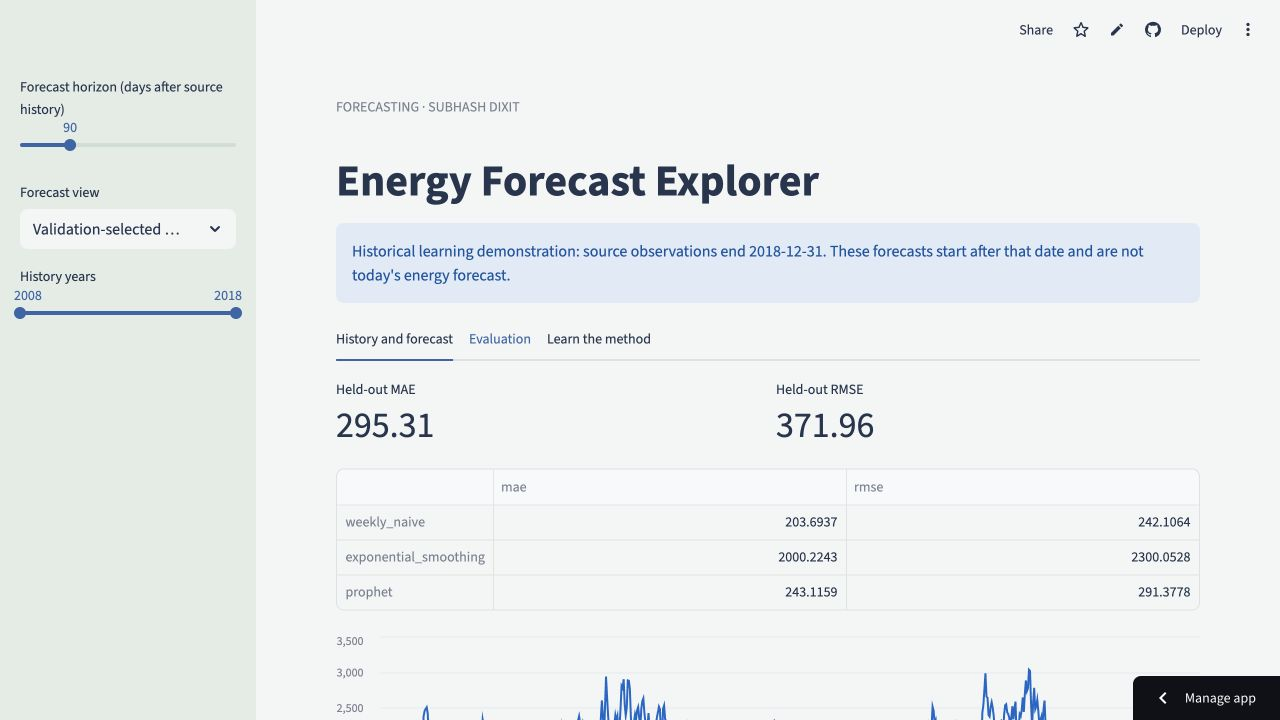
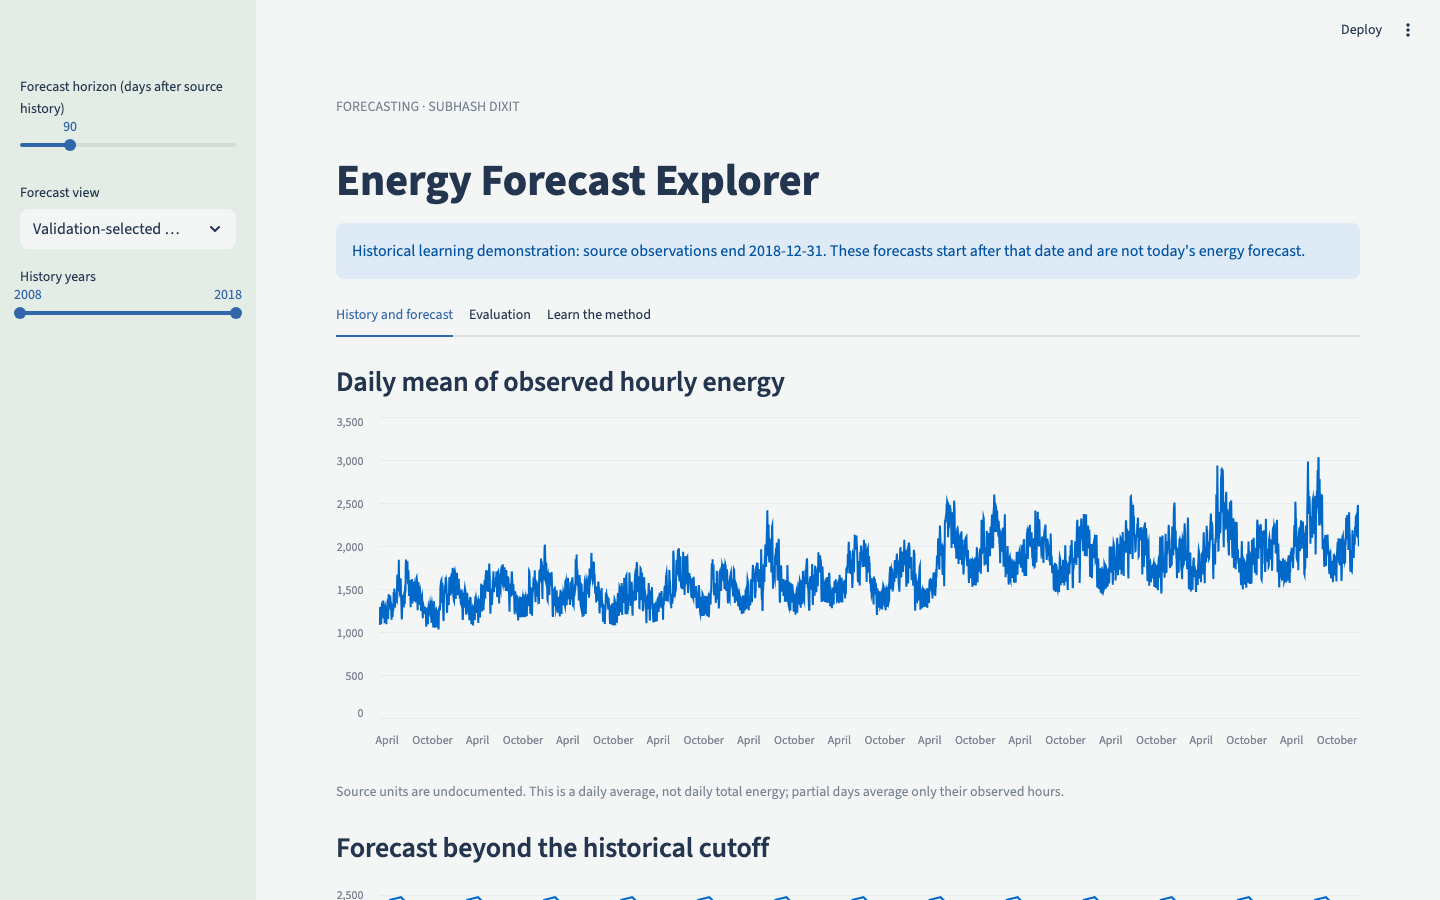
Document project architecture and add app screenshot (#4)

diff --git a/README.md b/README.md
@@ -1,16 +1,20 @@
 # Energy Forecast Explorer
 
-**Live application:** [Open Energy Demand Forecaster](https://subhash-energy-forecast.streamlit.app/)
+## 1. Project overview
 
-An end-to-end **historical daily-average energy forecasting dashboard** built with Streamlit. Compare a weekly-naive baseline, exponential smoothing and Prophet, inspect later-period errors, explore model-based uncertainty and download forecast horizons.
+Compare daily-average energy forecasts, inspect held-out errors, and download historical forecast horizons in a Streamlit dashboard.
 
-Heavy fitting runs offline. The deployed interface serves reviewed forecast artifacts, so opening a page does not start Stan or retrain a model.
+[Live demo](https://subhash-energy-forecast.streamlit.app/) · [Source repository](https://github.com/subhashdixit/energy-demand-forecaster)
 
-> Source history ends **31 December 2018**. The dashboard's forecasts are anchored after that historical cutoff; they are not current energy predictions. Source units and renewable-energy composition are undocumented. This is a learning resource, not a live grid-planning service.
+![Energy Forecast Explorer main screen](docs/images/application.png)
 
-![Live evaluation view](docs/images/application.png)
+*Main screen captured from the app running locally.*
 
-## What we built and why
+## 2. Motivation and problem statement
+
+Hourly challenge data and an undated forecast export make it hard to tell what was observed, how missing hours affect the daily signal, and whether a complex forecast beats a weekly baseline. This project builds a dated daily series, reports its coverage, and compares models on later observations before publishing forecast artifacts.
+
+## 3. Solution and scope
 
 The original project used Prophet for an hourly energy challenge and exported a three-year forecast. The new app provides a transparent **daily-average** learning task with chronological model comparison, explicit missing-data coverage, measured evaluation and a fast interface. This is a documented change in granularity, not an assertion that the original hourly submission has been reproduced unchanged.
 
@@ -23,41 +27,7 @@ The original notebook, CSVs and three-year export remain preserved. [The origina
 | Evaluation | Read validation MAE/RMSE and later held-out actual-versus-forecast lines |
 | Method | Understand aggregation, missing observations, time order, baselines and uncertainty |
 
-## Architecture
-
-```mermaid
-flowchart LR
-    A[Original hourly training CSV] --> B[Daily observed-value means and coverage]
-    B --> C[Chronological candidate comparison]
-    C --> D[Freeze validation-selected algorithm]
-    D --> E[Later-period test]
-    E --> F[Refit on all historical data]
-    F --> G[Dated forecast and evaluation artifacts]
-    G --> H[Streamlit dashboard and CSV downloads]
-```
-
-The application package contains data aggregation and metric functions. A separate script fits models and writes artifacts. The interface reads those artifacts and offers views/downloads. No Prophet/Stan installation is required in the serving dependency set; `requirements-training.txt` adds the offline training tools.
-
-This illustrates batch inference: predictions are computed ahead of time and then served. It is appropriate for a fixed historical learning study. A live forecasting service would need authorized fresh data ingestion, retraining schedules, monitoring and a defined update policy, which this app does not claim to provide.
-
-## Run locally
-
-Use Python 3.10 or 3.11; select Python 3.11 for Community Cloud.
-
-```bash
-git clone https://github.com/subhashdixit/energy-demand-forecaster.git
-cd energy-demand-forecaster
-python3 -m venv .venv
-source .venv/bin/activate
-python -m pip install --upgrade pip
-pip install -r requirements-dev.txt
-python -m pip check
-streamlit run streamlit_app.py
-```
-
-On Windows, activate with `.venv\Scripts\Activate.ps1`. Open [http://localhost:8501](http://localhost:8501). Committed artifacts are sufficient to use the dashboard; you do not need to rerun training.
-
-## Use the application
+## 4. Quick start and usage
 
 1. Inspect the historical cutoff notice and the daily mean series.
 2. Adjust the history-year range to explore earlier/later observations.
@@ -69,7 +39,32 @@ On Windows, activate with `.venv\Scripts\Activate.ps1`. Open [http://localhost:8
 
 The horizon slider changes the displayed subset of a precomputed 365-day forecast. It does not claim new data has arrived or trigger a new fit. Prophet's interval belongs to its comparison forecast; it must not be attached to the selected weekly-naive forecast as if both shared an uncertainty model.
 
-## Data, aggregation and missingness
+## 5. High-level architecture
+
+```mermaid
+flowchart LR
+    A["Hourly source CSV"] --> B["Offline daily aggregation and fitting"] --> C["Versioned reports and Prophet model"] --> D["Streamlit dashboard"]
+```
+
+## 6. End-to-end request workflow
+
+```mermaid
+sequenceDiagram
+    actor Visitor
+    participant UI as Application
+    participant Logic as Processing layer
+    Visitor->>UI: Choose an evaluation or forecast view
+    UI->>Logic: Load the report and selected forecast horizon
+    alt Valid input
+        Logic-->>UI: Charts, metrics, or downloadable forecast
+        UI-->>Visitor: Render or export the result
+    else Invalid input
+        Logic-->>UI: Input error
+        UI-->>Visitor: Show actionable feedback
+    end
+```
+
+## 7. Data sources, inputs, and outputs
 
 The source `train_IxoE5JN.csv` contains **94,992 hourly rows** and **1,900 missing energy values**. The preparation script validates unique timestamps, finite nonnegative observed values and daily target availability.
 
@@ -79,7 +74,77 @@ That distinction matters: the mean of 19 observed hours can differ from the true
 
 Source timezone, collection processes, units, target-definition detail and independent redistribution rights are not established here. The file name and original project title do not establish that all values measure renewable generation. Original challenge test/submission files are retained, but they have no ground truth for a claimed evaluation.
 
-## Reproduce offline training
+## 8. Data flow and ETL pipeline
+
+```mermaid
+flowchart LR
+    A["Historical hourly data"] --> B["Parse timestamps and check coverage"] --> C["Aggregate to daily averages"] --> D["Split chronologically"] --> E["Compare models and export forecasts"]
+```
+
+## 9. Low-level design and interfaces
+
+```mermaid
+flowchart LR
+    A["streamlit_app.py: views and inputs"] --> B["core.py: report and forecast utilities"] --> C["reports: versioned metrics and model"]
+```
+
+Streamlit renders validated controls and download actions. Shared forecasting code handles data and model operations.
+
+## 10. Concepts and algorithms
+
+| Candidate | How it works | Advantage | Limitation |
+|---|---|---|---|
+| Weekly naive | Repeat the last seven daily values | Transparent and strong when weekly structure dominates | Cannot anticipate a changing long-term trend or unusual event |
+| Exponential smoothing | Update level, additive trend and weekly seasonality | Smoothly adapts observed patterns | Trend extrapolation can drift badly over a long horizon |
+| Prophet | Piecewise trend plus Fourier seasonal components and an error model | Flexible calendar patterns and model-based uncertainty | Assumptions about trend/seasonality and future change can fail; not automatically superior |
+
+Prophet uses yearly and weekly seasonality, disables daily seasonality because the target is daily, and uses nominal interval width 0.8 with 300 uncertainty samples. No holiday calendar is invented. A data-derived seasonal pattern does not establish its causal mechanism.
+
+A simple analogy: weekly naive reuses last week's timetable; smoothing updates the timetable gradually; Prophet separates a longer-term direction from recurring calendar patterns. A flexible timetable can still extrapolate the wrong direction.
+
+### Prediction intervals
+
+Prophet's lower/upper lines form a nominal **80% model-based interval**. They are not guaranteed to contain 80% of future observations. Coverage depends on modeling assumptions and the future resembling the processes represented in history. Structural breaks, systematic missingness and unusual events can invalidate that interpretation.
+
+The selected weekly-naive model has no calibrated interval in this app. We do not borrow Prophet's interval for it. The published test metric concerns the selected model; no independent real-world uncertainty guarantee is claimed for either.
+
+## 11. Technology choices and dependencies
+
+| Technology | Role and rationale |
+| --- | --- |
+| pandas and NumPy | Align timestamps, aggregate daily values, and compute forecast errors. |
+| statsmodels and Prophet | Compare exponential smoothing and a calendar-aware model against weekly naive. |
+| Streamlit | Present interactive views over prepared artifacts without fitting on page load. |
+| pytest and dependency locks | Verify time-series behavior and reproduce the runtime environment. |
+
+[Dependency versions and reproducible setup](DEPENDENCIES.md)
+
+## 12. Training, inference, and evaluation
+
+| Validation candidate | MAE | RMSE |
+|---|---:|---:|
+| weekly naive | 203.694 | 242.106 |
+| exponential smoothing | 2000.224 | 2300.053 |
+| prophet | 243.116 | 291.378 |
+
+**Weekly naive wins**, despite Prophet's greater complexity. It is refitted on development data and measured on the final **792 days**:
+
+| Held-out metric | Result |
+|---|---:|
+| MAE | 295.311 |
+| RMSE | 371.958 |
+
+![Selected model on later observations](docs/images/evaluation.png)
+
+![Prophet components for explanation](docs/images/prophet-components.png)
+
+The components chart explains the fitted Prophet comparison; it is not proof that Prophet won. The selected model's test metrics must not be described as Prophet metrics.
+
+**MAE** is the mean absolute error in source daily-average units. It communicates a typical absolute miss. **RMSE** squares errors first and penalizes large misses more strongly. Neither should be compared numerically with a different dataset's scale. Percentage errors require an independently justified denominator and are not included.
+
+The long historical validation window exposes the smoothing model's poor trend extrapolation. The interface retains that comparison rather than silently showing only a favorable algorithm.
+
+### Reproduce offline preparation
 
 ```bash
 pip install -r requirements-training.txt
@@ -105,50 +170,7 @@ flowchart TD
 
 Validation selects the algorithm; the final test does not. The selected algorithm is refitted on training plus validation before testing. After evaluation is recorded, full history is used only for forecasting beyond the last source date. This is one historical holdout, not rolling-origin cross-validation or evidence of current performance.
 
-## Models: the story and tradeoffs
-
-| Candidate | How it works | Advantage | Limitation |
-|---|---|---|---|
-| Weekly naive | Repeat the last seven daily values | Transparent and strong when weekly structure dominates | Cannot anticipate a changing long-term trend or unusual event |
-| Exponential smoothing | Update level, additive trend and weekly seasonality | Smoothly adapts observed patterns | Trend extrapolation can drift badly over a long horizon |
-| Prophet | Piecewise trend plus Fourier seasonal components and an error model | Flexible calendar patterns and model-based uncertainty | Assumptions about trend/seasonality and future change can fail; not automatically superior |
-
-Prophet uses yearly and weekly seasonality, disables daily seasonality because the target is daily, and uses nominal interval width 0.8 with 300 uncertainty samples. No holiday calendar is invented. A data-derived seasonal pattern does not establish its causal mechanism.
-
-A simple analogy: weekly naive reuses last week's timetable; smoothing updates the timetable gradually; Prophet separates a longer-term direction from recurring calendar patterns. A flexible timetable can still extrapolate the wrong direction.
-
-## Measured results
-
-| Validation candidate | MAE | RMSE |
-|---|---:|---:|
-| weekly naive | 203.694 | 242.106 |
-| exponential smoothing | 2000.224 | 2300.053 |
-| prophet | 243.116 | 291.378 |
-
-**Weekly naive wins**, despite Prophet's greater complexity. It is refitted on development data and measured on the final **792 days**:
-
-| Held-out metric | Result |
-|---|---:|
-| MAE | 295.311 |
-| RMSE | 371.958 |
-
-![Selected model on later observations](docs/images/evaluation.png)
-
-![Prophet components for explanation](docs/images/prophet-components.png)
-
-The components chart explains the fitted Prophet comparison; it is not proof that Prophet won. The selected model's test metrics must not be described as Prophet metrics.
-
-**MAE** is the mean absolute error in source daily-average units. It communicates a typical absolute miss. **RMSE** squares errors first and penalizes large misses more strongly. Neither should be compared numerically with a different dataset's scale. Percentage errors require an independently justified denominator and are not included.
-
-The long historical validation window exposes the smoothing model's poor trend extrapolation. The interface retains that comparison rather than silently showing only a favorable algorithm.
-
-## Prediction intervals: useful but conditional
-
-Prophet's lower/upper lines form a nominal **80% model-based interval**. They are not guaranteed to contain 80% of future observations. Coverage depends on modeling assumptions and the future resembling the processes represented in history. Structural breaks, systematic missingness and unusual events can invalidate that interpretation.
-
-The selected weekly-naive model has no calibrated interval in this app. We do not borrow Prophet's interval for it. The published test metric concerns the selected model; no independent real-world uncertainty guarantee is claimed for either.
-
-## Coding standards and tests
+### Verification
 
 ```bash
 python -m black --check src tests scripts streamlit_app.py
@@ -162,28 +184,28 @@ Tests check observed-value aggregation, missing targets, duplicate timestamps, n
 
 Functions handle stateless transformations. Streamlit handles the interface; offline scripts handle fitting. This keeps modeling, presentation and deployment concerns independently reviewable.
 
-## Deployment: platform-managed updates without a custom CI workflow
+## 13. Limitations and data handling
 
-This repository intentionally demonstrates **no custom GitHub Actions pipeline**. Run the local quality checks, review changes and merge a verified revision. Community Cloud then manages deployment from the linked branch. That automatic publishing is still CD; omitting a workflow file does not mean updates are entirely manual.
+The source ends on 31 December 2018. Forecasts use that historical cutoff. Units and renewable composition are undocumented. Coverage, aggregation, and model assumptions limit interpretation.
 
-1. Sign in to Streamlit Community Cloud and connect GitHub.
-2. Select `subhashdixit/energy-demand-forecaster`, branch `main`.
-3. Set entry file `streamlit_app.py` and Python **3.11**.
-4. Deploy; confirm the cutoff notice, both forecast views, evaluation and downloads.
+## 14. Installation and local setup
 
-`requirements.txt` installs only serving dependencies. Heavy training requirements stay separate. Hosting supplies the running app and URL; deployment selects and installs a repository version.
+Use Python 3.10 or 3.11; select Python 3.11 for Community Cloud.
 
-Benefits are simple hosting, fast artifact-driven page loads and little server configuration. Tradeoffs include resource limits, platform sleep behavior, less server control and reliance on manual local verification before merge. See [Community Cloud documentation](https://docs.streamlit.io/deploy/streamlit-community-cloud).
+```bash
+git clone https://github.com/subhashdixit/energy-demand-forecaster.git
+cd energy-demand-forecaster
+python3 -m venv .venv
+source .venv/bin/activate
+python -m pip install --upgrade pip
+pip install -r requirements-dev.txt
+python -m pip check
+streamlit run streamlit_app.py
+```
 
-## Versioning, retraining and rollback
+On Windows, activate with `.venv\Scripts\Activate.ps1`. Open [http://localhost:8501](http://localhost:8501). Committed artifacts are sufficient to use the dashboard; you do not need to rerun training.
 
-Model/report version, Git revision, source hash, training dependencies and dated forecast files describe a release together. Retraining creates new forecast artifacts; deployment publishes them. They are separate actions.
-
-For an update, install the training environment, verify new authorized source data, preserve the observation cutoff, prepare candidates, inspect validation/test behavior and commit matching artifacts/code. Changing aggregation changes the target and requires a clearly documented release.
-
-To roll back, revert the problematic commit through a reviewed change so Community Cloud publishes the previous code and artifacts. Restarting the same broken revision is not a rollback. Keep earlier source hashes and reports; do not repeatedly use the same test period for tuning and still call it untouched.
-
-## Repository map
+## 15. Repository structure
 
 ```text
 src/energy_forecast/core.py aggregation, coverage and error definitions
@@ -199,24 +221,41 @@ archive/                   original README
 Original CSVs/notebook     preserved source and earlier study
 ```
 
-## Troubleshooting
+## 16. Deployment and operations
 
-If forecasts appear old, check the source cutoff: this is intentionally historical. If preparation fails for an empty day, investigate the missing target rather than silently filling a future evaluation value. If Prophet cannot initialize its Stan backend, confirm the pinned training environment and supported Python; serving existing reports does not need that backend. A successful page load does not establish useful forecasting performance.
+```mermaid
+flowchart LR
+    A["GitHub main"] --> B["Streamlit Community Cloud"] --> C["Load versioned artifacts"] --> D["Serve dashboard"]
+```
 
-## References
+This repository intentionally demonstrates **no custom GitHub Actions pipeline**. Run the local quality checks, review changes and merge a verified revision. Community Cloud then manages deployment from the linked branch. That automatic publishing is still CD; omitting a workflow file does not mean updates are entirely manual.
+
+1. Sign in to Streamlit Community Cloud and connect GitHub.
+2. Select `subhashdixit/energy-demand-forecaster`, branch `main`.
+3. Set entry file `streamlit_app.py` and Python **3.11**.
+4. Deploy; confirm the cutoff notice, both forecast views, evaluation and downloads.
+
+`requirements.txt` installs only serving dependencies. Heavy training requirements stay separate. Hosting supplies the running app and URL; deployment selects and installs a repository version.
+
+Benefits are simple hosting, fast artifact-driven page loads and little server configuration. Tradeoffs include resource limits, platform sleep behavior, less server control and reliance on manual local verification before merge. See [Community Cloud documentation](https://docs.streamlit.io/deploy/streamlit-community-cloud).
+
+### Versioning and rollback
+
+Model/report version, Git revision, source hash, training dependencies and dated forecast files describe a release together. Retraining creates new forecast artifacts; deployment publishes them. They are separate actions.
+
+For an update, install the training environment, verify new authorized source data, preserve the observation cutoff, prepare candidates, inspect validation/test behavior and commit matching artifacts/code. Changing aggregation changes the target and requires a clearly documented release.
+
+To roll back, revert the problematic commit through a reviewed change so Community Cloud publishes the previous code and artifacts. Restarting the same broken revision is not a rollback. Keep earlier source hashes and reports; do not repeatedly use the same test period for tuning and still call it untouched.
+
+## 17. License, credits, and support
+
+Project by **Subhash Dixit**. The repository has no standalone code license file. Dataset and dependency terms are described separately where applicable. Report bugs or documentation issues with synthetic reproduction inputs.
+
+[GitHub Issues](https://github.com/subhashdixit/energy-demand-forecaster/issues)
+
+### References
 
 - [Prophet official project and releases](https://github.com/facebook/prophet)
 - [Statsmodels time-series methods](https://www.statsmodels.org/stable/tsa.html)
 - [Streamlit AppTest](https://docs.streamlit.io/develop/api-reference/app-testing)
 - [Streamlit Community Cloud](https://docs.streamlit.io/deploy/streamlit-community-cloud)
-
-## Exact local dependency versions
-
-[DEPENDENCIES.md](DEPENDENCIES.md) lists the pinned runtime, development and training environments. `requirements.txt` now explicitly records all external runtime package versions, including transitive dependencies.
-
-```bash
-python3.11 -m venv .venv
-# Activate: source .venv/bin/activate (Windows: .venv\Scripts\activate)
-python -m pip install -r requirements.txt
-python -m pip check
-```
